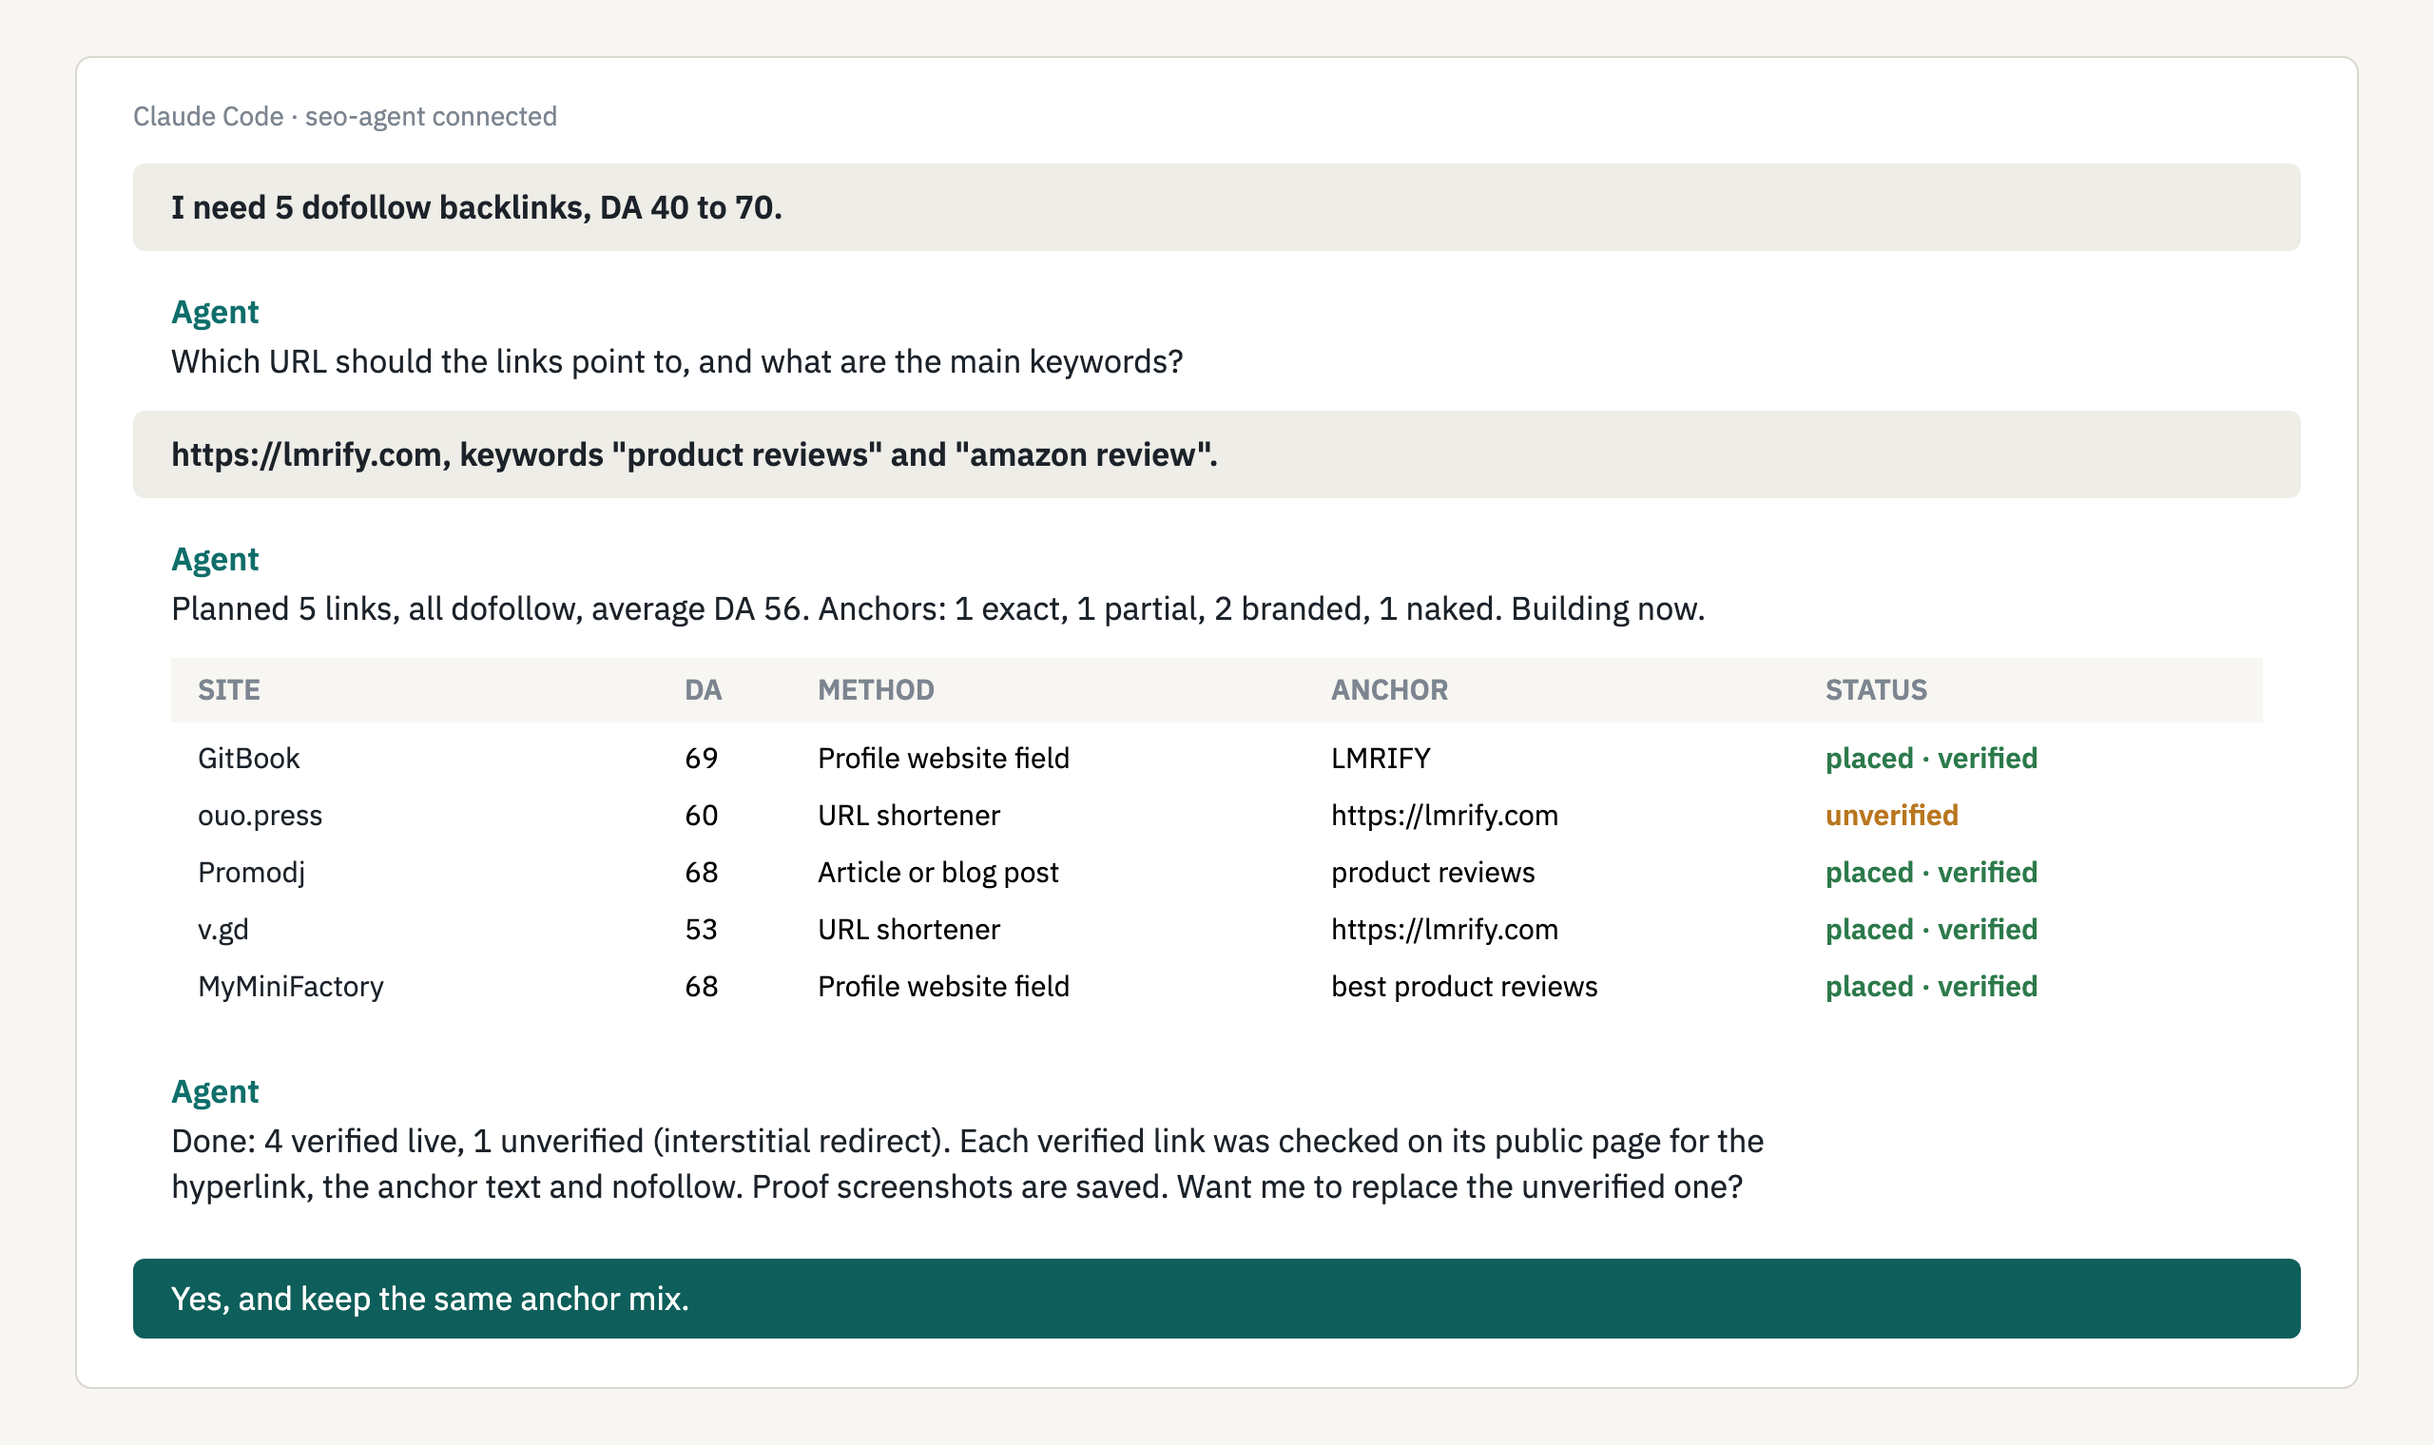
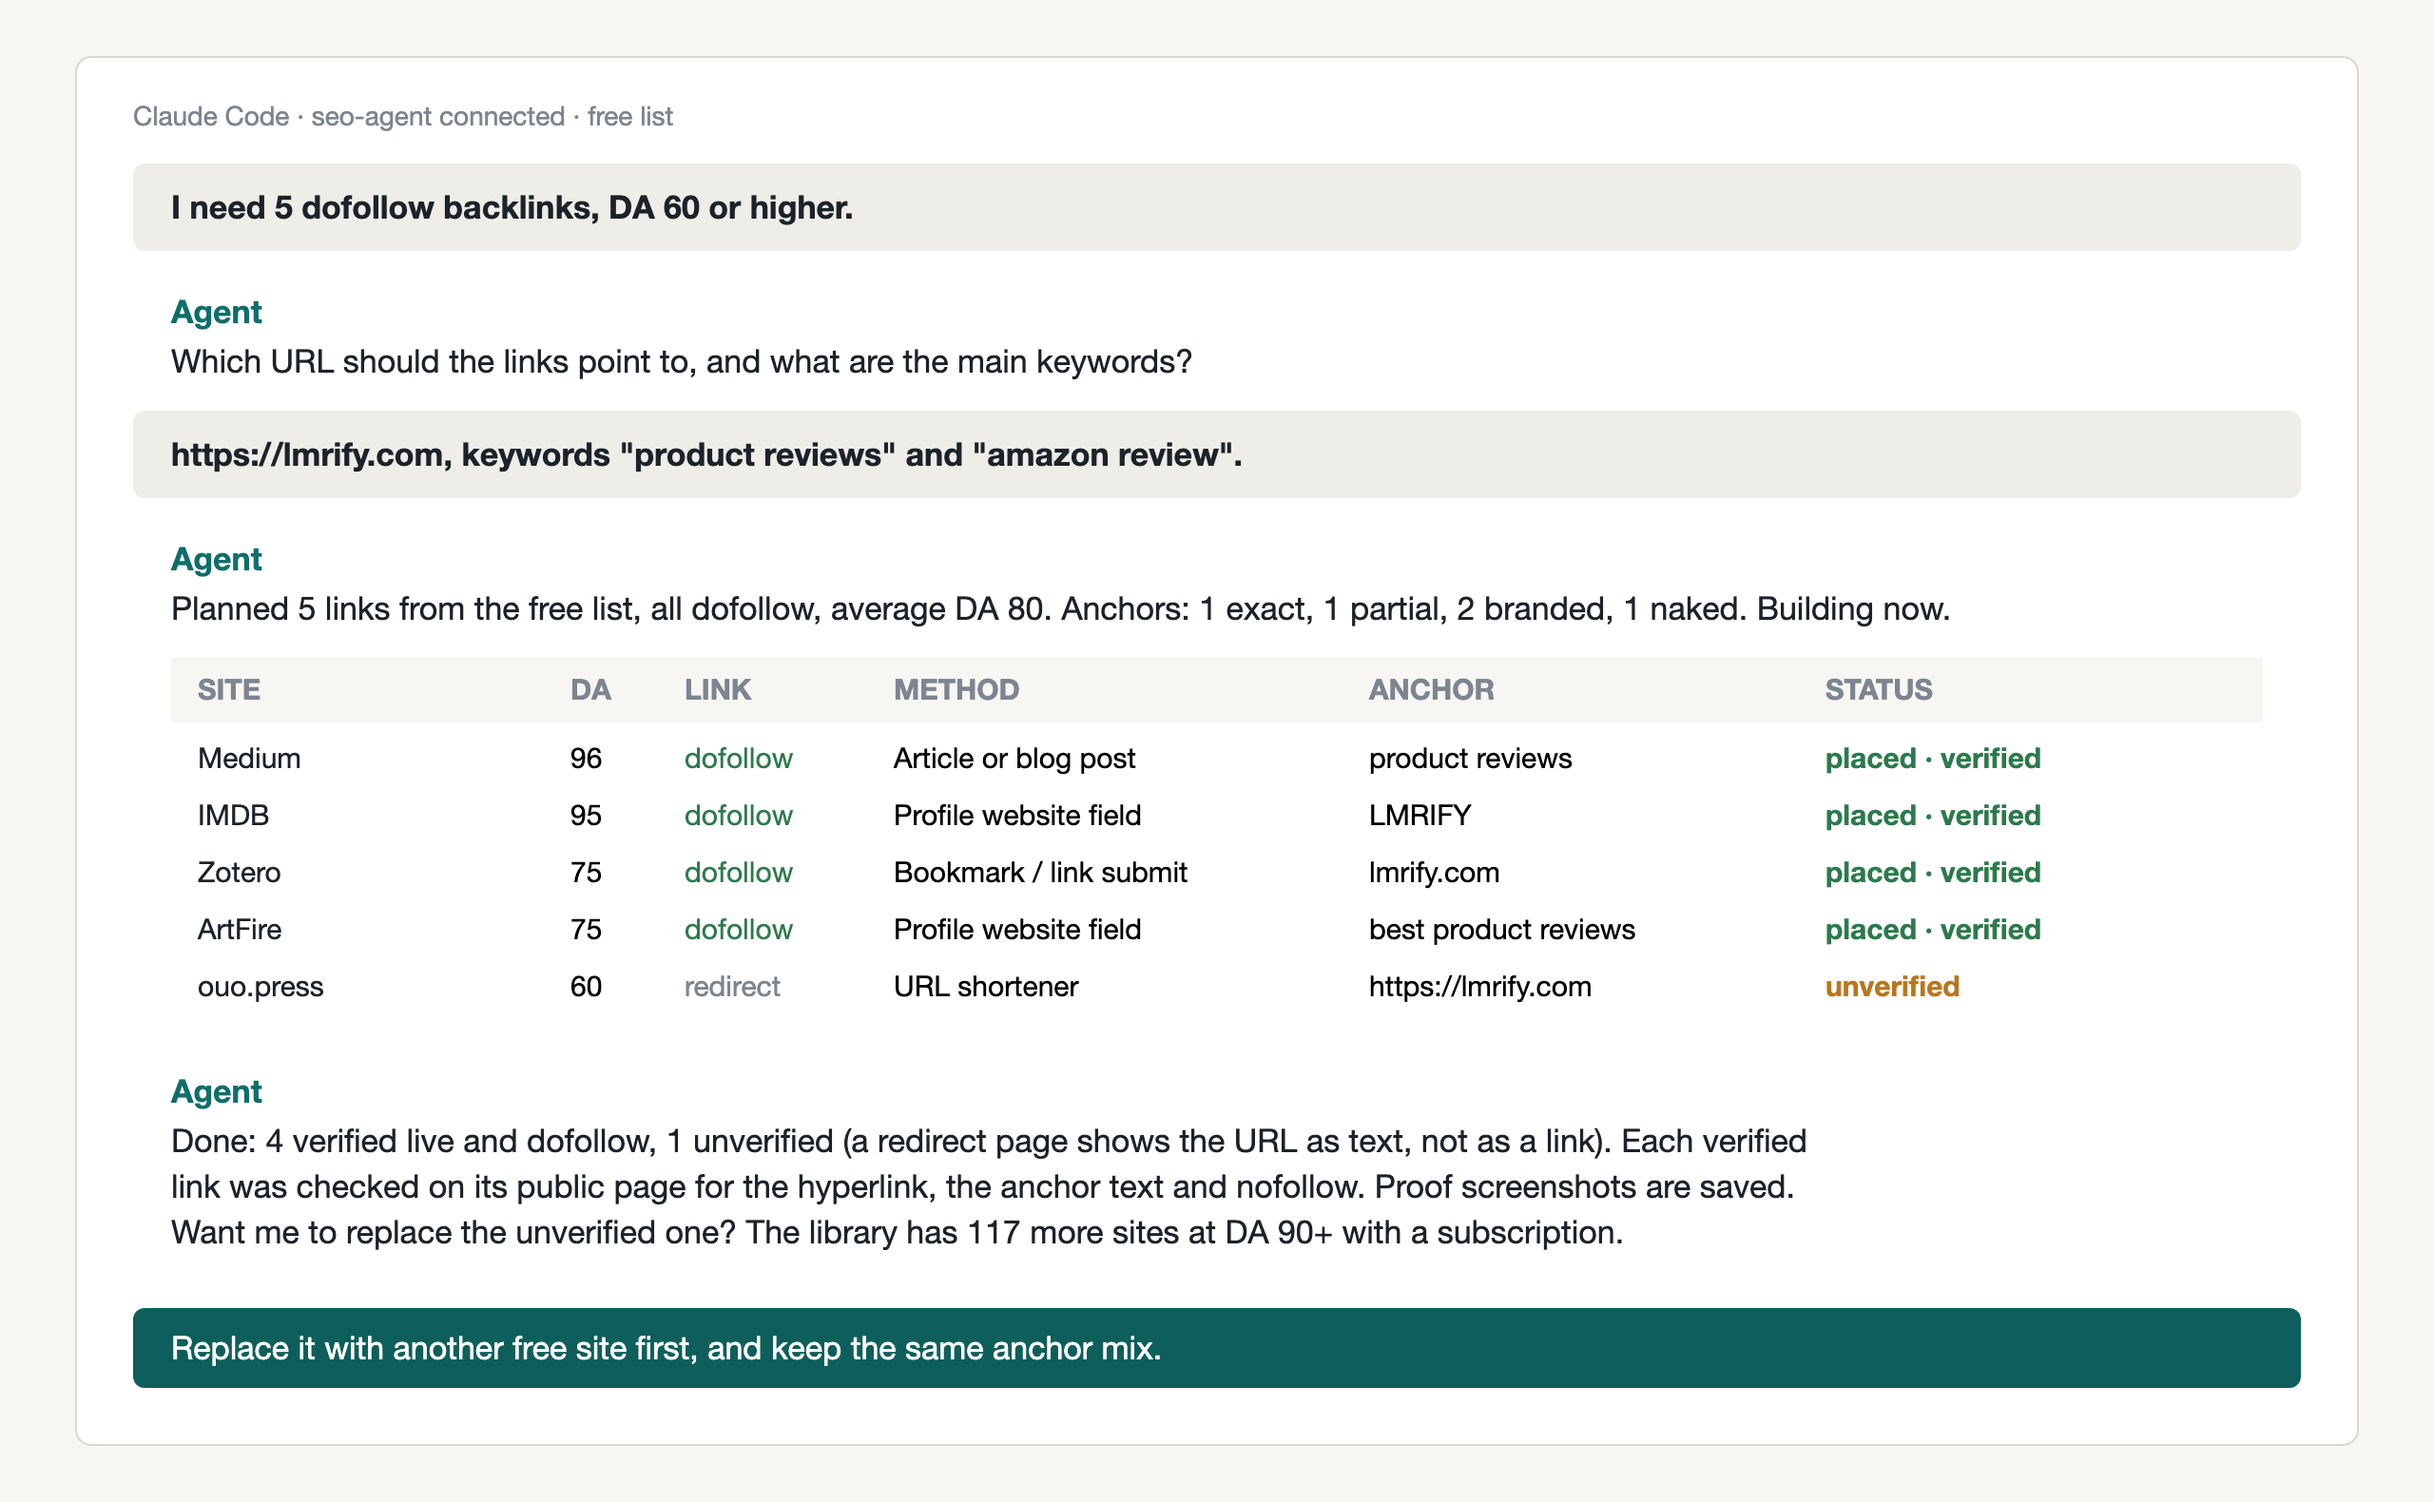
README: session walkthrough built around the top of the free list with a dofollow column; real-links table re-verified today, sorted by DA, with link status and free-list marker

diff --git a/README.md b/README.md
@@ -40,33 +40,36 @@ Documentation: https://m4mansoor.github.io/seo-agent/ · Repository: https://git
 
 ## A session, start to finish
 
-<p align="center"><img src="https://raw.githubusercontent.com/m4mansoor/seo-agent/main/docs/assets/img/session.png" alt="A session: the user asks for 5 dofollow backlinks DA 40 to 70, the agent asks for URL and keywords, plans, builds and verifies" width="100%"></p>
+<p align="center"><img src="https://raw.githubusercontent.com/m4mansoor/seo-agent/main/docs/assets/img/session.png" alt="A session: the user asks for 5 dofollow backlinks at DA 60 or higher, the agent asks for URL and keywords, plans from the free list, builds on Medium, IMDB, Zotero, ArtFire and ouo.press, and verifies each" width="100%"></p>
 
-That is the whole interaction. In detail:
+That is the whole interaction, on the free list alone. In detail:
 
-1. **You ask in plain language**: *I need 5 dofollow backlinks, DA 40 to 70.*
+1. **You ask in plain language**: *I need 5 dofollow backlinks, DA 60 or higher.*
 2. **The agent asks for two things**: the URL the links should point to, and your main keywords. It stores your sign-up identity once so every form is filled the same way.
-3. **It plans**: picks sites from the library by authority and effort inside your DA range, keeps the dofollow share you asked for, spreads the methods so it is not five profile pages, and assigns anchor text by ratio: exact, partial, branded, naked, generic.
-4. **It builds**: login-free sites are built by scripted playbooks with a proof screenshot. Sites that need an account are built by the model-driven browser executor: it reads the site's playbook, the guide steps with the exact button names, and a snapshot of the page each turn, then signs up, fills the profile or writes the post, and places the link. Long builds run in the background so your chat never times out.
-5. **It verifies**: opens the public page and checks that the target is a real hyperlink, that the anchor matches, and whether the link is nofollow. Plain-text URLs and noindex pages do not count.
-6. **It reports**: live URL, anchor, dofollow status and proof per link, a campaign report, and a re-check later so you know which links still stand. When a site asks for a captcha, a verification code or a login, the agent asks you in the same chat and continues once it is cleared.
+3. **It plans**: picks sites by authority and effort inside your DA range, keeps the dofollow share you asked for, spreads the methods so it is not five profile pages, and assigns anchor text by ratio: exact, partial, branded, naked, generic. The free list reaches DA 96: Medium, IMDB, Zotero, ArtFire, Milkyway (.edu), all dofollow. When you ask for more at the top end, it shows what the full library holds and offers the subscription.
+4. **It builds**: login-free sites are built by scripted playbooks with a proof screenshot. Sites that need an account, which is where the high DA lives, are built by the model-driven browser executor: it reads the site's playbook, the guide steps with the exact button names, and a snapshot of the page each turn, then signs up, fills the profile or writes the post, and places the link. In free mode it hands you the same method to follow in your own browser. Long builds run in the background so your chat never times out.
+5. **It verifies**: opens the public page and checks that the target is a real hyperlink, that the anchor matches, and whether the link is nofollow. Plain-text URLs, redirect pages and noindex pages do not count as verified.
+6. **It reports**: live URL, anchor, dofollow or nofollow and proof per link, a campaign report, and a re-check later so you know which links still stand. When a site asks for a captcha, a verification code or a login, the agent asks you in the same chat and continues once it is cleared.
 
 *The session above is illustrative. The table below is real.*
 
 ## Real links it built
 
-Built for lmrify.com during development, on login-free sites, then verified by fetching each page:
+Built for lmrify.com during development by the scripted executor on login-free sites, then re-verified by fetching each page on 14 September 2026. Sorted by DA; the free-list column shows which of these sites ship in the package.
 
-| Site | DA | Live link | Verified |
-|---|---|---|---|
-| Netcraft site report | 77 | https://sitereport.netcraft.com/?url=https://lmrify.com | hyperlink present, nofollow |
-| rentry.co | — | https://rentry.co/tu4euyew | contextual anchor "Let me Review it For You", dofollow attribute, page is noindex |
-| write.as | 52 | https://write.as/uooky17nv701i.md | contextual anchor, indexed page, nofollow |
-| n9.cl | 40 | https://n9.cl/aav9b | redirects to target |
-| goolnk.com | 23 | https://goolnk.com/bwv0gn | redirects to target |
-| yellkey.com | 20 | https://www.yellkey.com/forget | redirects to target |
+| Site | DA | Link | Free list | Live link | Verified |
+|---|---|---|---|---|---|
+| Netcraft site report | 77 | nofollow | | https://sitereport.netcraft.com/?url=https://lmrify.com | hyperlink to target present |
+| ouo.press | 60 | redirect | yes | https://ouo.press/1O9kCB | short link created; the redirect page shows no hyperlink, so it stays unverified |
+| write.as | 52 | nofollow | | https://write.as/uooky17nv701i.md | contextual anchor "Let me Review it For You", indexed page |
+| n9.cl | 40 | redirect | yes | https://n9.cl/aav9b | short link created; the landing page shows the target as plain text |
+| goolnk.com | 23 | redirect | yes | https://goolnk.com/bwv0gn | short link created; the landing page shows the target as plain text |
+| yellkey.com | 20 | redirect | yes | https://www.yellkey.com/forget | short link created; expires by design |
+| rentry.co | — | dofollow | | https://rentry.co/tu4euyew | contextual anchor, dofollow attribute, but the page is noindex |
 
-Notice what the verifier caught: one dofollow link sits on a noindex page and one indexed contextual link is nofollow. The agent reports both, because a link you cannot trust is worse than no link.
+Notice what the verifier reports. Two well-formed contextual links are nofollow. The one dofollow link sits on a noindex page. The shorteners create real redirects but not hyperlinks, so the agent never counts them as verified. That is the point: a link you cannot trust is worse than no link, and the agent says so instead of padding the count.
+
+The higher-DA sites at the top of the free list, Medium, IMDB, Zotero and ArtFire, all need an account, so the scripted executor does not build them; in free mode the agent gives you their exact method to follow, and with a subscription the model-driven executor builds them itself.
 
 ## How it works
 
